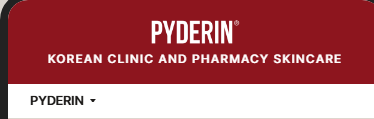
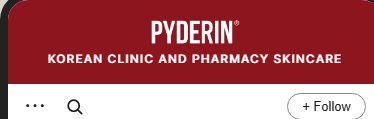
검수 요청서 헤더 화면을 최신 시안으로 교체

diff --git a/review/index.html b/review/index.html
@@ -31,7 +31,7 @@
 <body>
 <main>
   <h1>PYDERIN 미국 아마존 브랜드관 — 문안 검수 요청서</h1>
-  <div>작성일 2026-11-11 · 기준 시안: design-v15 (미리보기 https://gimyedalm-collab.github.io/pyderin-store-preview/)</div>
+  <div>작성일 2026-11-11 · 기준 시안: design-v16 (미리보기 https://gimyedalm-collab.github.io/pyderin-store-preview/)</div>
   <div class="how">
     <b>검수 순서</b>
     <ol>
